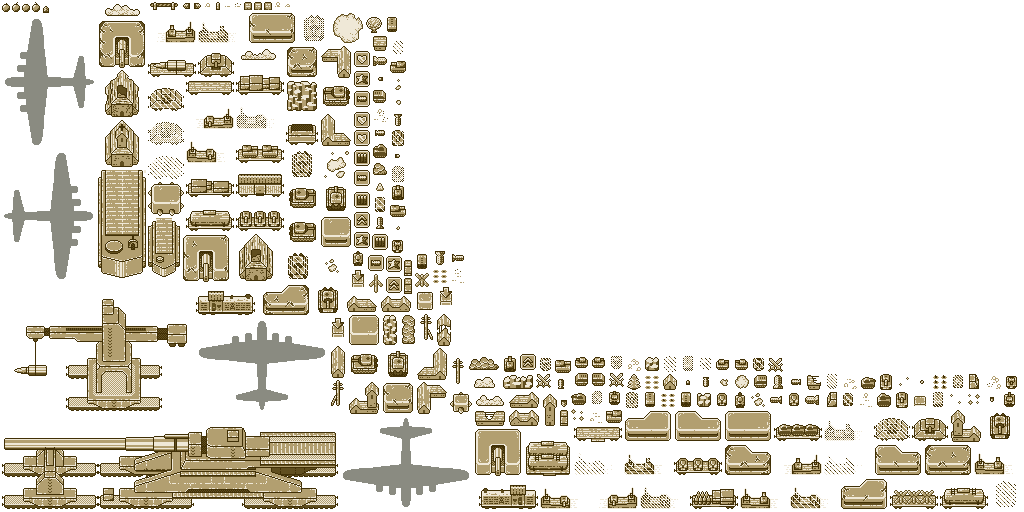
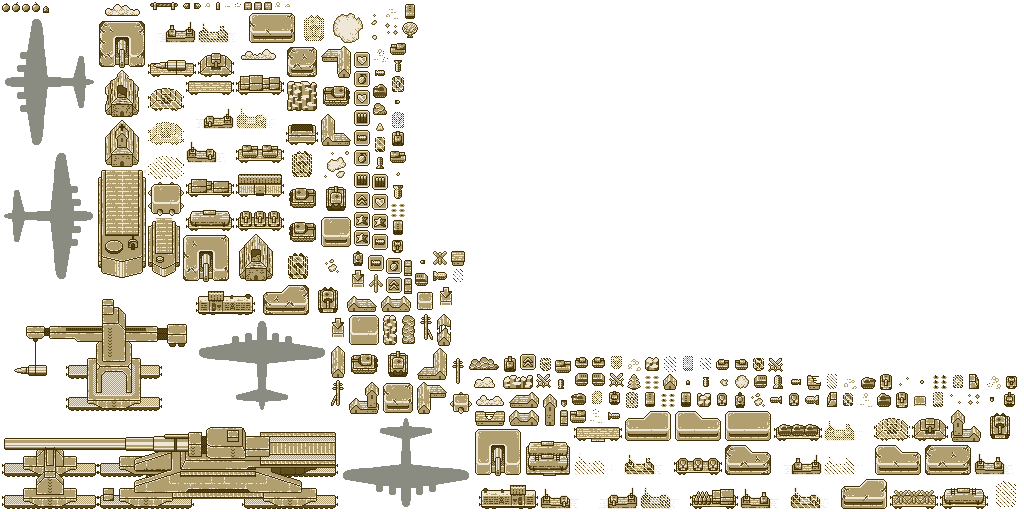
RT-0.18.49 - Grenade bonus added.

Changed region(s): [[0.3438, 0.0, 0.4062, 0.5], [0.375, 0.4688, 0.4688, 0.5625], [0.5625, 0.7812, 0.625, 0.8438]]

diff --git a/core/src/remove/tanks/game/level/engine/listener/bonus/executor/GrenadeBonusExecutor.java b/core/src/remove/tanks/game/level/engine/listener/bonus/executor/GrenadeBonusExecutor.java
@@ -1,0 +1,27 @@
+package remove.tanks.game.level.engine.listener.bonus.executor;
+
+import com.badlogic.ashley.core.Entity;
+import com.badlogic.gdx.math.MathUtils;
+import remove.tanks.game.level.engine.entity.EntityFamily;
+import remove.tanks.game.level.engine.entity.component.bonus.BonusType;
+import remove.tanks.game.level.engine.entity.component.destroy.DestroyComponent;
+import remove.tanks.game.level.engine.entity.component.destroy.DestroyOnContactComponent;
+import remove.tanks.game.level.engine.entity.component.shoot.AmmoComponent;
+import remove.tanks.game.level.engine.listener.bonus.BonusPickUpListener;
+
+/**
+ * @author Mateusz Długosz
+ */
+public final class GrenadeBonusExecutor implements BonusExecutor {
+    @Override
+    public void executeBonus(Entity bonusEntity, BonusPickUpListener listener) {
+        listener.getEngine().getEntitiesFor(EntityFamily.EnemiesFamily.getFamily()).forEach(
+                e -> e.add(new DestroyComponent())
+        );
+    }
+
+    @Override
+    public BonusType getExecutorType() {
+        return BonusType.GrenadeBonus;
+    }
+}

diff --git a/core/src/remove/tanks/game/configuration/component/level/EntityListenerSupplierConfiguration.java b/core/src/remove/tanks/game/configuration/component/level/EntityListenerSupplierConfiguration.java
@@ -45,7 +45,8 @@ public final class EntityListenerSupplierConfiguration {
                                             new AmmoBonusExecutor(),
                                             new BombersBonusExecutor(),
                                             new LifeBonusExecutor(),
-                                            new PromotionBonusExecutor()
+                                            new PromotionBonusExecutor(),
+                                            new GrenadeBonusExecutor()
                                     }
                             ),
                             new TriggerListenerFactory()

diff --git a/core/src/remove/tanks/game/GameApplication.java b/core/src/remove/tanks/game/GameApplication.java
@@ -21,7 +21,7 @@ import java.util.HashSet;
 
 public final class GameApplication extends Game {
 	public static final String TITLE = "Remove Tanks!";
-	public static final String VERSION = "0.18.48";
+	public static final String VERSION = "0.18.49";
 
 	private final Configuration configuration;
 

diff --git a/core/src/remove/tanks/game/level/engine/entity/component/bonus/BonusType.java b/core/src/remove/tanks/game/level/engine/entity/component/bonus/BonusType.java
@@ -8,5 +8,6 @@ public enum BonusType {
     AmmoBonus,
     LifeBonus,
     StarBonus,
-    PromotionBonus
+    PromotionBonus,
+    GrenadeBonus
 }
